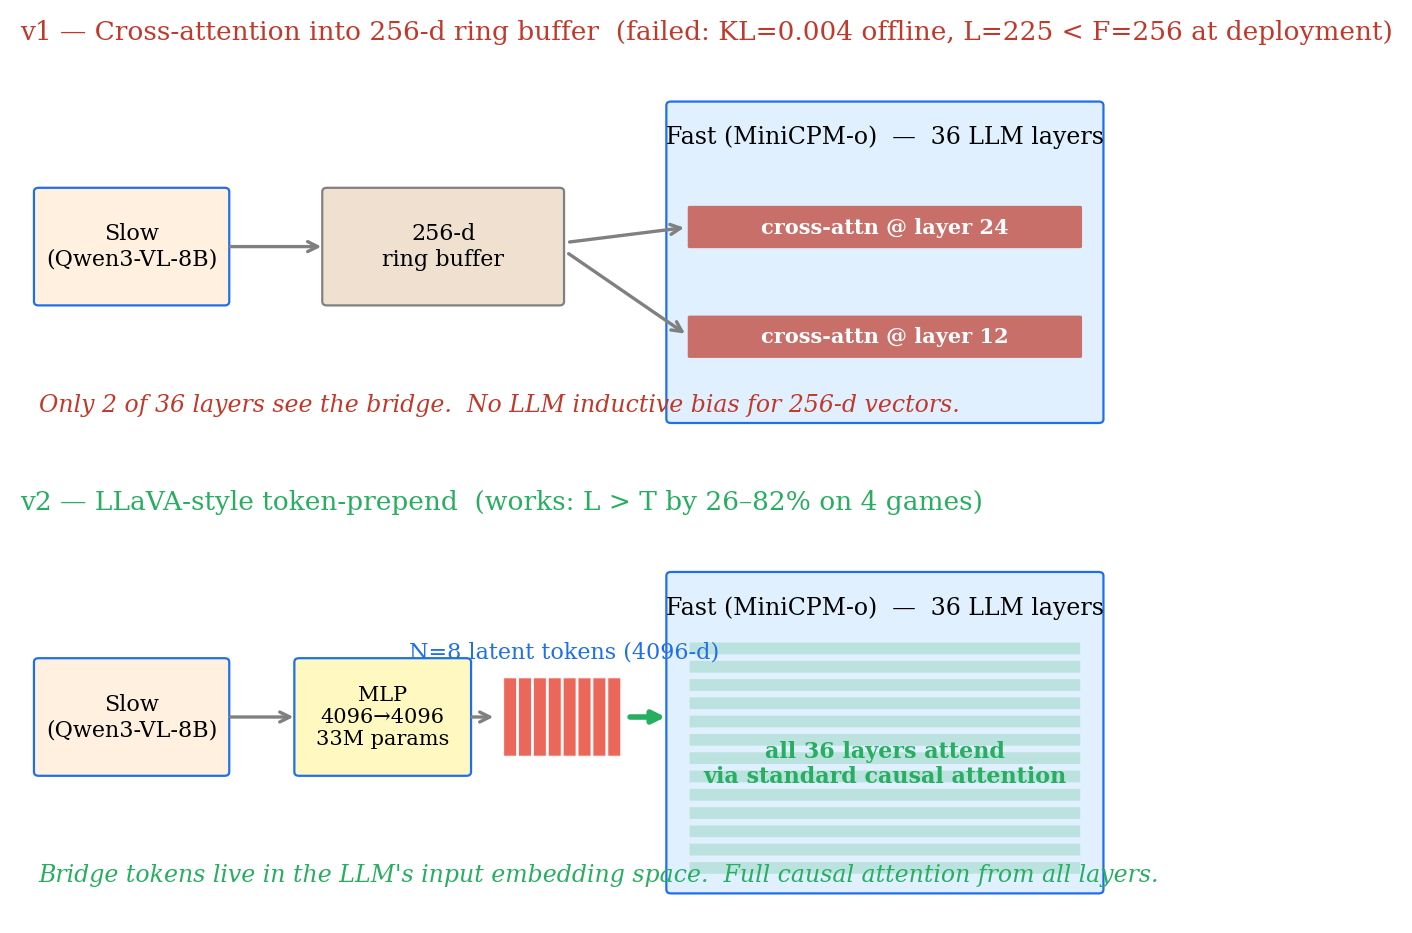
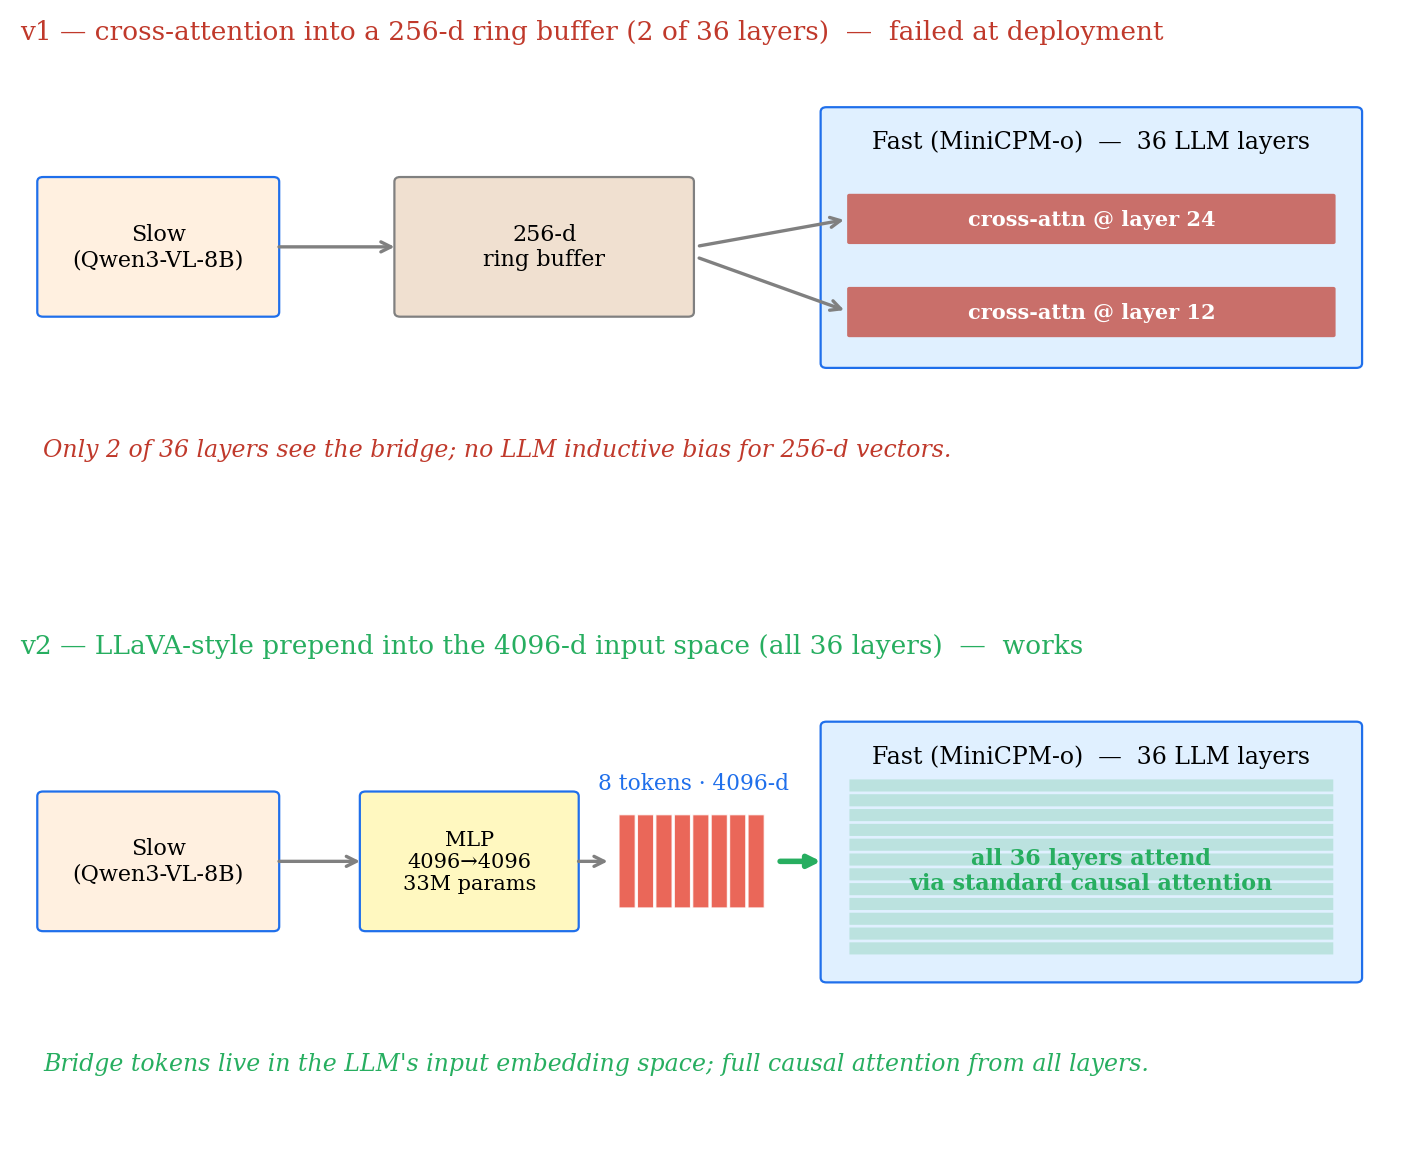
Paper: simplify system+architecture figures, name strategies, cut hedging
Figures:
- fig_system (Fig 2): drop training-pipeline panel and F/T/L key; single-panel
  runtime architecture only (strategies now a bulleted list in the body)
- fig_architecture (Fig 3): fix text/box overlap (dedicated diagram + caption
  bands); principle-level titles instead of number-dumps

Text:
- Define Fast-Only (F) in the intro; use full names (Fast-Only / Text Bridge /
  Latent Bridge) in prose, keeping F/T/L only in figures and formulas
- Remove hedging paragraphs (causal-claim hedge; 'what the direct measurement
  does and doesn't show')
- Make narrative principle-driven: condense the greedy-decoding and token-count
  sections, push raw numbers to the appendices

diff --git a/paper/figures/make_paper_figures.py b/paper/figures/make_paper_figures.py
@@ -86,17 +86,14 @@ OUT = Path(__file__).parent
 # ---------------------------------------------------------------------------
 
 def fig_system():
-    # Wider-than-tall, sized close to \textwidth so on-page downscaling is mild
-    # and the labels stay legible. Two stacked panels: runtime loop + training.
-    fig = plt.figure(figsize=(8.6, 6.7))
-    gs = fig.add_gridspec(2, 1, height_ratios=[3.7, 1.0], hspace=0.20)
-    ax = fig.add_subplot(gs[0])
-    axt = fig.add_subplot(gs[1])
-    for a in (ax, axt):
-        a.axis("off")
-        a.set_xlim(0, 16)
+    # Single-panel runtime architecture, sized close to \textwidth so on-page
+    # downscaling is mild and the labels stay legible. The F/T/L strategies and
+    # the training pipeline are described in the body text, not here.
+    fig = plt.figure(figsize=(8.6, 5.1))
+    ax = fig.add_subplot(111)
+    ax.axis("off")
+    ax.set_xlim(0, 16)
     ax.set_ylim(0, 10.4)
-    axt.set_ylim(0, 2.5)
 
     def box(a, x, y, w, h, fc, ec, text, fs=8.5, tc="black", lw=1.0,
             weight="normal", style="round,pad=0.06", va="center"):
@@ -140,13 +137,13 @@ def fig_system():
         ax.add_patch(FancyBboxPatch((lx + i * 0.18, sy), 0.16, sh,
                                     boxstyle="round,pad=0", facecolor=C_L,
                                     edgecolor="white", linewidth=0.4, alpha=0.92))
-    ax.text(lx + 0.72, sy - 0.20, "$L$: 8 latent\ntokens", fontsize=7.8,
+    ax.text(lx + 0.72, sy - 0.20, "8 latent\ntokens", fontsize=7.8,
             color=C_L, ha="center", va="top", fontweight="bold")
     box(ax, 5.05, sy, 1.95, sh, "#e4efe4", "0.5", "vision\ntokens", fs=8.0,
         style="round,pad=0.02")
     box(ax, 7.1, sy, 2.0, sh, "#f4f4f4", "0.5", "game-state\nprompt", fs=8.0,
         style="round,pad=0.02")
-    box(ax, 9.2, sy, 2.15, sh, "#dbeafe", C_T, "$T$: slow\ntext suffix", fs=8.0,
+    box(ax, 9.2, sy, 2.15, sh, "#dbeafe", C_T, "text\nsuffix", fs=8.0,
         tc="#1d5e8a", style="round,pad=0.02")
     arrow(ax, 6.05, 6.9, 6.02, sy + sh + 0.02, color="0.5", lw=1.1)  # vision tower -> strip
 
@@ -195,29 +192,6 @@ def fig_system():
     # MLP up to L prefix in the strip
     arrow(ax, 11.3, 2.45, lx + 0.72, sy - 0.06, color=C_L, lw=2.0, rad=0.16)
 
-    # compact F/T/L key (clear corner under the slow row)
-    ax.text(15.78, 2.4,
-            "$F$: sequence as shown\n"
-            "$T$:  $F$ + blue suffix\n"
-            "$L$:  $F$ + red prefix",
-            fontsize=8.0, color="0.2", ha="right", va="top",
-            bbox=dict(boxstyle="round,pad=0.4", fc="white", ec="0.7", lw=0.8))
-
-    # ============== training strip (bottom panel) ==============
-    axt.text(8.0, 2.32, "Training pipeline (per game; both base models stay frozen)",
-             fontsize=8.8, color="0.2", ha="center", va="center", fontweight="bold")
-    box(axt, 0.15, 0.2, 4.9, 1.6, "#f0f4f8", "0.45",
-        "Stage A — action head\nBC from SB3 expert\n(bare, or robust: suffix-prob 0.5)",
-        fs=8.0)
-    box(axt, 5.55, 0.2, 4.9, 1.6, "#f0f4f8", "0.45",
-        "Stage B — data\nroll out $T$; cache (frame,\nslow text, layer-24 residuals)",
-        fs=8.0)
-    box(axt, 10.95, 0.2, 4.9, 1.6, "#f0f4f8", "0.45",
-        "Stage C — bridge\ntrain the MLP only on\nKL$(\\pi_L\\,\\|\\,\\pi_T)$, "
-        "$\\sim$5K samples/game", fs=8.0)
-    arrow(axt, 5.05, 1.0, 5.5, 1.0, color="0.45", lw=1.5)
-    arrow(axt, 10.45, 1.0, 10.9, 1.0, color="0.45", lw=1.5)
-
     fig.savefig(OUT / "fig_system.pdf")
     fig.savefig(OUT / "fig_system.png", dpi=200)
     plt.close(fig)
@@ -229,100 +203,83 @@ def fig_system():
 # ---------------------------------------------------------------------------
 
 def fig_architecture():
-    # Vertical layout: each panel on its own row to give labels room.
-    fig, (ax1, ax2) = plt.subplots(2, 1, figsize=(7.2, 5.6))
+    # Two stacked panels. A dedicated diagram band (y 1.7-4.4) sits above a clear
+    # caption band (y~0.7) so the italic captions never underlap the boxes.
+    fig, (ax1, ax2) = plt.subplots(2, 1, figsize=(7.2, 6.0))
+
+    def slow_box(ax):
+        ax.add_patch(FancyBboxPatch((0.2, 2.25), 2.0, 1.4, boxstyle="round,pad=0.05",
+                                    facecolor="#fff0e0", edgecolor=C_ACC, linewidth=0.8))
+        ax.text(1.2, 2.95, "Slow\n(Qwen3-VL-8B)", ha="center", va="center", fontsize=8)
+
+    def fast_box(ax):
+        ax.add_patch(FancyBboxPatch((7.0, 1.7), 4.6, 2.7, boxstyle="round,pad=0.05",
+                                    facecolor="#e0f0ff", edgecolor=C_ACC, linewidth=0.8))
+        ax.text(9.3, 4.08, "Fast (MiniCPM-o)  —  36 LLM layers",
+                ha="center", va="center", fontsize=8.5)
 
     def draw_v1(ax):
         ax.set_xlim(0, 12); ax.set_ylim(0, 5)
         ax.axis("off")
-        ax.set_title("v1 — Cross-attention into 256-d ring buffer  (failed: KL=0.004 offline, L=225 < F=256 at deployment)",
-                     fontsize=9.5, color=C_BAD, pad=4, loc="left")
-        # Slow box
-        ax.add_patch(FancyBboxPatch((0.2, 1.8), 2.0, 1.4,
-                                     boxstyle="round,pad=0.05",
-                                     facecolor="#fff0e0", edgecolor=C_ACC, linewidth=0.8))
-        ax.text(1.2, 2.5, "Slow\n(Qwen3-VL-8B)", ha="center", va="center", fontsize=8)
+        ax.set_title("v1 — cross-attention into a 256-d ring buffer (2 of 36 layers)  —  "
+                     "failed at deployment", fontsize=9.5, color=C_BAD, pad=6, loc="left")
+        slow_box(ax)
         # Ring buffer
-        ax.add_patch(FancyBboxPatch((3.3, 1.8), 2.5, 1.4,
-                                     boxstyle="round,pad=0.05",
-                                     facecolor="#f0e0d0", edgecolor="grey", linewidth=0.8))
-        ax.text(4.55, 2.5, "256-d\nring buffer", ha="center", va="center", fontsize=8)
-        # Fast box — only depths 12 & 24 have cross-attn
-        ax.add_patch(FancyBboxPatch((7.0, 0.3), 4.6, 4.0,
-                                     boxstyle="round,pad=0.05",
-                                     facecolor="#e0f0ff", edgecolor=C_ACC, linewidth=0.8))
-        ax.text(9.3, 3.9, "Fast (MiniCPM-o)  —  36 LLM layers",
-                ha="center", va="center", fontsize=8.5)
+        ax.add_patch(FancyBboxPatch((3.3, 2.25), 2.5, 1.4, boxstyle="round,pad=0.05",
+                                    facecolor="#f0e0d0", edgecolor="grey", linewidth=0.8))
+        ax.text(4.55, 2.95, "256-d\nring buffer", ha="center", va="center", fontsize=8)
+        fast_box(ax)
         # Cross-attn at 12 & 24 inside the fast box
-        ax.add_patch(FancyBboxPatch((7.2, 2.5), 4.2, 0.5,
-                                     boxstyle="round,pad=0.02",
-                                     facecolor=C_BAD, edgecolor="none", alpha=0.7))
-        ax.text(9.3, 2.75, "cross-attn @ layer 24", ha="center", va="center",
-                fontsize=7.5, color="white", fontweight="bold")
-        ax.add_patch(FancyBboxPatch((7.2, 1.1), 4.2, 0.5,
-                                     boxstyle="round,pad=0.02",
-                                     facecolor=C_BAD, edgecolor="none", alpha=0.7))
-        ax.text(9.3, 1.35, "cross-attn @ layer 12", ha="center", va="center",
-                fontsize=7.5, color="white", fontweight="bold")
+        for yb, lab in [(3.0, "cross-attn @ layer 24"), (2.0, "cross-attn @ layer 12")]:
+            ax.add_patch(FancyBboxPatch((7.2, yb), 4.2, 0.5, boxstyle="round,pad=0.02",
+                                        facecolor=C_BAD, edgecolor="none", alpha=0.7))
+            ax.text(9.3, yb + 0.25, lab, ha="center", va="center",
+                    fontsize=7.5, color="white", fontweight="bold")
         # Arrows
-        ax.annotate("", xy=(3.3, 2.5), xytext=(2.2, 2.5),
+        ax.annotate("", xy=(3.3, 2.95), xytext=(2.2, 2.95),
                     arrowprops=dict(arrowstyle="->", color="grey", lw=1.2))
-        ax.annotate("", xy=(7.2, 2.75), xytext=(5.85, 2.55),
+        ax.annotate("", xy=(7.2, 3.25), xytext=(5.85, 2.95),
                     arrowprops=dict(arrowstyle="->", color="grey", lw=1.2))
-        ax.annotate("", xy=(7.2, 1.35), xytext=(5.85, 2.45),
+        ax.annotate("", xy=(7.2, 2.25), xytext=(5.85, 2.85),
                     arrowprops=dict(arrowstyle="->", color="grey", lw=1.2))
-        # Caption
-        ax.text(0.2, 0.4, "Only 2 of 36 layers see the bridge.  No LLM inductive bias for 256-d vectors.",
+        ax.text(0.2, 0.7, "Only 2 of 36 layers see the bridge; no LLM inductive bias for 256-d vectors.",
                 fontsize=8.5, style="italic", color=C_BAD)
 
     def draw_v2(ax):
         ax.set_xlim(0, 12); ax.set_ylim(0, 5)
         ax.axis("off")
-        ax.set_title("v2 — LLaVA-style token-prepend  (works: L > T by 26–82% on 4 games)",
-                     fontsize=9.5, color=C_GOOD, pad=4, loc="left")
-        # Slow box
-        ax.add_patch(FancyBboxPatch((0.2, 1.8), 2.0, 1.4,
-                                     boxstyle="round,pad=0.05",
-                                     facecolor="#fff0e0", edgecolor=C_ACC, linewidth=0.8))
-        ax.text(1.2, 2.5, "Slow\n(Qwen3-VL-8B)", ha="center", va="center", fontsize=8)
+        ax.set_title("v2 — LLaVA-style prepend into the 4096-d input space (all 36 layers)  —  "
+                     "works", fontsize=9.5, color=C_GOOD, pad=6, loc="left")
+        slow_box(ax)
         # Projection
-        ax.add_patch(FancyBboxPatch((3.0, 1.8), 1.8, 1.4,
-                                     boxstyle="round,pad=0.05",
-                                     facecolor="#fff8c0", edgecolor=C_ACC, linewidth=0.8))
-        ax.text(3.9, 2.5, "MLP\n4096→4096\n33M params", ha="center", va="center", fontsize=7.5)
+        ax.add_patch(FancyBboxPatch((3.0, 2.25), 1.8, 1.4, boxstyle="round,pad=0.05",
+                                    facecolor="#fff8c0", edgecolor=C_ACC, linewidth=0.8))
+        ax.text(3.9, 2.95, "MLP\n4096→4096\n33M params", ha="center", va="center", fontsize=7.5)
         # 8 bridge tokens
         for i in range(8):
-            ax.add_patch(FancyBboxPatch((5.2 + i*0.16, 2.0), 0.14, 1.0,
-                                         boxstyle="round,pad=0",
-                                         facecolor=C_L, edgecolor="white", linewidth=0.4, alpha=0.85))
-        ax.text(5.85, 3.25, "N=8 latent tokens (4096-d)", ha="center",
-                fontsize=8, color=C_ACC)
-        # Fast box — entire stack reads bridge via attention
-        ax.add_patch(FancyBboxPatch((7.0, 0.3), 4.6, 4.0,
-                                     boxstyle="round,pad=0.05",
-                                     facecolor="#e0f0ff", edgecolor=C_ACC, linewidth=0.8))
-        ax.text(9.3, 3.9, "Fast (MiniCPM-o)  —  36 LLM layers",
-                ha="center", va="center", fontsize=8.5)
+            ax.add_patch(FancyBboxPatch((5.2 + i*0.16, 2.45), 0.14, 1.0, boxstyle="round,pad=0",
+                                        facecolor=C_L, edgecolor="white", linewidth=0.4, alpha=0.85))
+        ax.text(5.85, 3.72, "8 tokens · 4096-d", ha="center", fontsize=7.8, color=C_ACC)
+        fast_box(ax)
         # Highlight that ALL layers see bridge
-        for y in np.linspace(0.5, 3.3, 13):
-            ax.add_patch(FancyBboxPatch((7.2, y), 4.2, 0.15,
-                                         boxstyle="round,pad=0",
-                                         facecolor=C_GOOD, edgecolor="none", alpha=0.20))
-        ax.text(9.3, 1.9, "all 36 layers attend\nvia standard causal attention",
+        for y in np.linspace(1.95, 3.7, 12):
+            ax.add_patch(FancyBboxPatch((7.2, y), 4.2, 0.13, boxstyle="round,pad=0",
+                                        facecolor=C_GOOD, edgecolor="none", alpha=0.20))
+        ax.text(9.3, 2.85, "all 36 layers attend\nvia standard causal attention",
                 ha="center", va="center", fontsize=8, color=C_GOOD, fontweight="bold")
         # Arrows
-        ax.annotate("", xy=(3.0, 2.5), xytext=(2.2, 2.5),
+        ax.annotate("", xy=(3.0, 2.95), xytext=(2.2, 2.95),
                     arrowprops=dict(arrowstyle="->", color="grey", lw=1.2))
-        ax.annotate("", xy=(5.15, 2.5), xytext=(4.8, 2.5),
+        ax.annotate("", xy=(5.15, 2.95), xytext=(4.8, 2.95),
                     arrowprops=dict(arrowstyle="->", color="grey", lw=1.2))
-        ax.annotate("", xy=(7.0, 2.5), xytext=(6.5, 2.5),
-                    arrowprops=dict(arrowstyle="-|>", color=C_GOOD, lw=2,
-                                    connectionstyle="arc3,rad=0"))
-        ax.text(0.2, 0.4, "Bridge tokens live in the LLM's input embedding space.  Full causal attention from all layers.",
+        ax.annotate("", xy=(7.0, 2.95), xytext=(6.55, 2.95),
+                    arrowprops=dict(arrowstyle="-|>", color=C_GOOD, lw=2))
+        ax.text(0.2, 0.7, "Bridge tokens live in the LLM's input embedding space; full causal attention from all layers.",
                 fontsize=8.5, style="italic", color=C_GOOD)
 
     draw_v1(ax1)
     draw_v2(ax2)
+    fig.subplots_adjust(left=0.02, right=0.98, top=0.93, bottom=0.03, hspace=0.32)
     fig.savefig(OUT / "fig_architecture.pdf")
     fig.savefig(OUT / "fig_architecture.png", dpi=200)
     plt.close(fig)